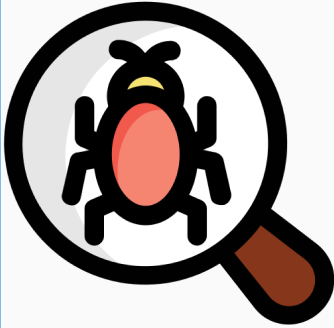
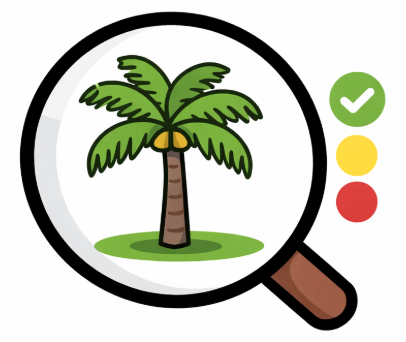
your commit message

diff --git a/app/guest-homepage.tsx b/app/guest-homepage.tsx
@@ -2,25 +2,22 @@ import { Feather, Ionicons } from '@expo/vector-icons';
 import { router } from 'expo-router';
 import React, { useEffect, useState } from 'react';
 import {
-  Image,
-  Modal,
-  SafeAreaView,
-  ScrollView,
-  StyleSheet,
-  Text,
-  TouchableOpacity,
-  View
+    Image,
+    Modal,
+    SafeAreaView,
+    ScrollView,
+    StyleSheet,
+    Text,
+    TouchableOpacity,
+    View
 } from 'react-native';
 import { AuthService } from '../services/authService';
-import { HistoryItem, getUserHistory } from '../services/historyService';
 
 export default function HomeScreen() {
   const [menuVisible, setMenuVisible] = useState(false);
   const [displayName, setDisplayName] = useState<string>('');
-  const [recentHistory, setRecentHistory] = useState<HistoryItem[]>([]);
 
   const handleStartScanning = () => router.push('/camera');
-  const handleHistoryPress = () => router.push('/history');
   const handleProfilePress = () => router.push('/profile');
   const handleMenuPress = () => setMenuVisible(true);
 
@@ -37,14 +34,6 @@ export default function HomeScreen() {
     const unsubscribe = AuthService.onAuthStateChanged((user) => {
       if (user) {
         setDisplayName(computeName(user.email, user.displayName));
-        (async () => {
-          try {
-            const items = await getUserHistory();
-            setRecentHistory((items || []).slice(0, 3));
-          } catch {
-            setRecentHistory([]);
-          }
-        })();
       } else {
         router.replace('/signin');
       }
@@ -177,39 +166,6 @@ export default function HomeScreen() {
           </TouchableOpacity>
         </View>
 
-        {/* History header */}
-        <TouchableOpacity style={styles.historyHeader} onPress={handleHistoryPress}>
-          <Text style={styles.historyTitle}>History</Text>
-          <Text style={styles.chevron}>›</Text>
-        </TouchableOpacity>
-
-        {/* Recent History list (max 3 items) */}
-        {recentHistory.length === 0 ? (
-          <Text style={styles.historyEmpty}>No recent history.</Text>
-        ) : (
-          <View style={{ marginTop: 8 }}>
-            {recentHistory.slice(0, 3).map((item) => (
-              <TouchableOpacity
-                key={item.id || Math.random().toString(36)}
-                style={styles.historyItem}
-                onPress={() => router.push('/history')}
-                activeOpacity={0.85}
-                accessibilityLabel={`Open history item ${item.prediction || 'Unknown'}`}
-              >
-                {item.imageUri ? (
-                  <Image source={{ uri: item.imageUri }} style={styles.historyThumb} />
-                ) : (
-                  <View style={[styles.historyThumb, styles.historyThumbFallback]} />
-                )}
-                <View style={{ flex: 1 }}>
-                  <Text style={styles.historyItemTitle}>{item.prediction || 'Unknown'}</Text>
-                  <Text style={styles.historyItemSub}>{new Date(item.timestamp || Date.now()).toLocaleString()}</Text>
-                </View>
-              </TouchableOpacity>
-            ))}
-          </View>
-        )}
-
         <View style={{ height: 120 }} />
       </ScrollView>
 
@@ -222,10 +178,6 @@ export default function HomeScreen() {
         <TouchableOpacity style={styles.footerItem} onPress={handleStartScanning} activeOpacity={0.7} accessibilityLabel="Open Camera">
           <Feather name="camera" size={24} color="#6B7280" />
           <Text style={styles.footerLabel}>Camera</Text>
-        </TouchableOpacity>
-        <TouchableOpacity style={styles.footerItem} onPress={handleHistoryPress} activeOpacity={0.7} accessibilityLabel="View History">
-          <Feather name="clock" size={24} color="#6B7280" />
-          <Text style={styles.footerLabel}>History</Text>
         </TouchableOpacity>
         <TouchableOpacity style={styles.footerItem} onPress={handleProfilePress} activeOpacity={0.7} accessibilityLabel="Open Profile">
           <Feather name="user" size={24} color="#6B7280" />
@@ -457,56 +409,6 @@ const styles = StyleSheet.create({
     fontWeight: '700', 
     textAlign: 'center' 
   },
-  historyHeader: { 
-    marginTop: 16, 
-    flexDirection: 'row', 
-    alignItems: 'center', 
-    justifyContent: 'space-between' 
-  },
-  historyTitle: { 
-    color: '#111827', 
-    fontSize: 16, 
-    fontWeight: '800' 
-  },
-  chevron: { 
-    color: '#111827', 
-    fontSize: 24, 
-    fontWeight: '800' 
-  },
-  historyEmpty: { 
-    color: '#6B7280', 
-    marginTop: 8 
-  },
-  historyItem: { 
-    flexDirection: 'row', 
-    alignItems: 'center', 
-    backgroundColor: '#FFFFFF', 
-    borderRadius: 12, 
-    borderWidth: 1, 
-    borderColor: '#E5E7EB', 
-    padding: 10, 
-    marginBottom: 8 
-  },
-  historyThumb: { 
-    width: 54, 
-    height: 54, 
-    borderRadius: 12, 
-    backgroundColor: '#F3F4F6', 
-    marginRight: 12 
-  },
-  historyThumbFallback: { 
-    alignItems: 'center', 
-    justifyContent: 'center' 
-  },
-  historyItemTitle: { 
-    color: '#111827', 
-    fontWeight: '800' 
-  },
-  historyItemSub: { 
-    color: '#6B7280', 
-    fontSize: 12 
-  },
-  
   /* Footer */
   footerBar: {
     position: 'absolute',

diff --git a/app/camera.tsx b/app/camera.tsx
@@ -63,6 +63,32 @@ const normalizePrediction = (
   return 'not infested';
 };
 
+interface DistanceGuideEntry {
+  label: string;
+  distance: string;
+  icon: string;
+}
+
+const DISTANCE_GUIDE: DistanceGuideEntry[] = [
+  { label: 'Not infested (healthy palm)', distance: '5-6 meters', icon: '🟢' },
+  { label: 'CRB infested (boreholes / near V-cut)', distance: '2-3 meters', icon: '🔴' },
+  { label: 'CRB infested (far away V-cut)', distance: '7-10+ meters', icon: '🔴' },
+  { label: 'Other damage / abnormalities', distance: 'Any distance', icon: '🔵' },
+];
+
+const getRecommendedDistance = (prediction: CocoClass): string => {
+  switch (prediction) {
+    case 'not infested':
+      return '5-6 meters';
+    case 'infested by CRB':
+      return '2-3 m (near boreholes/V-cut) or 7-10+ m (far V-cut)';
+    case 'other damage or abnormalities':
+      return 'Any distance';
+    default:
+      return 'N/A';
+  }
+};
+
 const safeJson = async (res: Response): Promise<any | null> => {
   try {
     return await res.json();
@@ -291,6 +317,7 @@ export default function CameraScreen() {
   const [capturedPhoto, setCapturedPhoto] = useState<any>(null);
   const [healthPrediction, setHealthPrediction] =
     useState<HealthPrediction | null>(null);
+  const [showGuide, setShowGuide] = useState(false);
 
   const cameraRef = useRef<CameraView>(null);
   const router = useRouter();
@@ -461,6 +488,11 @@ export default function CameraScreen() {
                   {capturedPhoto.healthResult.analysis.details}
                 </Text>
               )}
+
+            <Text style={styles.distanceRecommend}>
+              📏 Recommended capture distance:{'\n'}
+              {getRecommendedDistance(capturedPhoto.healthResult.prediction)}
+            </Text>
           </View>
         )}
 
@@ -484,6 +516,36 @@ export default function CameraScreen() {
   return (
     <View style={styles.container}>
       <CameraView style={styles.camera} facing="back" ref={cameraRef} />
+
+      {/* Distance Guide toggle button */}
+      <TouchableOpacity
+        style={styles.guideToggle}
+        onPress={() => setShowGuide((v) => !v)}
+        accessibilityLabel="Toggle distance guide"
+      >
+        <Text style={styles.guideToggleText}>📏</Text>
+      </TouchableOpacity>
+
+      {/* Distance Guide panel */}
+      {showGuide && (
+        <View style={styles.guidePanel}>
+          <View style={styles.guideHeader}>
+            <Text style={styles.guideTitle}>Recommended Capture Distance</Text>
+            <TouchableOpacity onPress={() => setShowGuide(false)}>
+              <Text style={styles.guideClose}>✕</Text>
+            </TouchableOpacity>
+          </View>
+          {DISTANCE_GUIDE.map((entry, i) => (
+            <View key={i} style={styles.guideRow}>
+              <Text style={styles.guideIcon}>{entry.icon}</Text>
+              <View style={{ flex: 1 }}>
+                <Text style={styles.guideLabel}>{entry.label}</Text>
+                <Text style={styles.guideValue}>{entry.distance}</Text>
+              </View>
+            </View>
+          ))}
+        </View>
+      )}
 
       <View style={styles.controlsContainer}>
         <TouchableOpacity
@@ -736,5 +798,81 @@ const styles = StyleSheet.create({
     color: '#fff',
     fontSize: 18,
     fontWeight: '600',
+  },
+
+  /* Distance Guide */
+  guideToggle: {
+    position: 'absolute',
+    top: 60,
+    right: 20,
+    width: 44,
+    height: 44,
+    borderRadius: 22,
+    backgroundColor: 'rgba(0, 0, 0, 0.6)',
+    justifyContent: 'center',
+    alignItems: 'center',
+    zIndex: 10,
+  },
+  guideToggleText: {
+    fontSize: 22,
+  },
+  guidePanel: {
+    position: 'absolute',
+    top: 110,
+    right: 20,
+    left: 20,
+    backgroundColor: 'rgba(0, 0, 0, 0.85)',
+    borderRadius: 16,
+    padding: 16,
+    zIndex: 10,
+    borderWidth: 1,
+    borderColor: 'rgba(255, 255, 255, 0.15)',
+  },
+  guideHeader: {
+    flexDirection: 'row',
+    justifyContent: 'space-between',
+    alignItems: 'center',
+    marginBottom: 12,
+  },
+  guideTitle: {
+    color: '#fff',
+    fontSize: 15,
+    fontWeight: '700',
+  },
+  guideClose: {
+    color: '#ccc',
+    fontSize: 18,
+    paddingHorizontal: 4,
+  },
+  guideRow: {
+    flexDirection: 'row',
+    alignItems: 'center',
+    marginBottom: 8,
+  },
+  guideIcon: {
+    fontSize: 14,
+    marginRight: 10,
+  },
+  guideLabel: {
+    color: '#ddd',
+    fontSize: 13,
+    fontWeight: '600',
+  },
+  guideValue: {
+    color: '#aaa',
+    fontSize: 12,
+    marginTop: 1,
+  },
+
+  /* Distance recommendation on preview */
+  distanceRecommend: {
+    color: '#fff',
+    fontSize: 13,
+    opacity: 0.9,
+    lineHeight: 18,
+    marginTop: 10,
+    paddingTop: 10,
+    borderTopWidth: 1,
+    borderTopColor: 'rgba(255, 255, 255, 0.2)',
   },
 });
